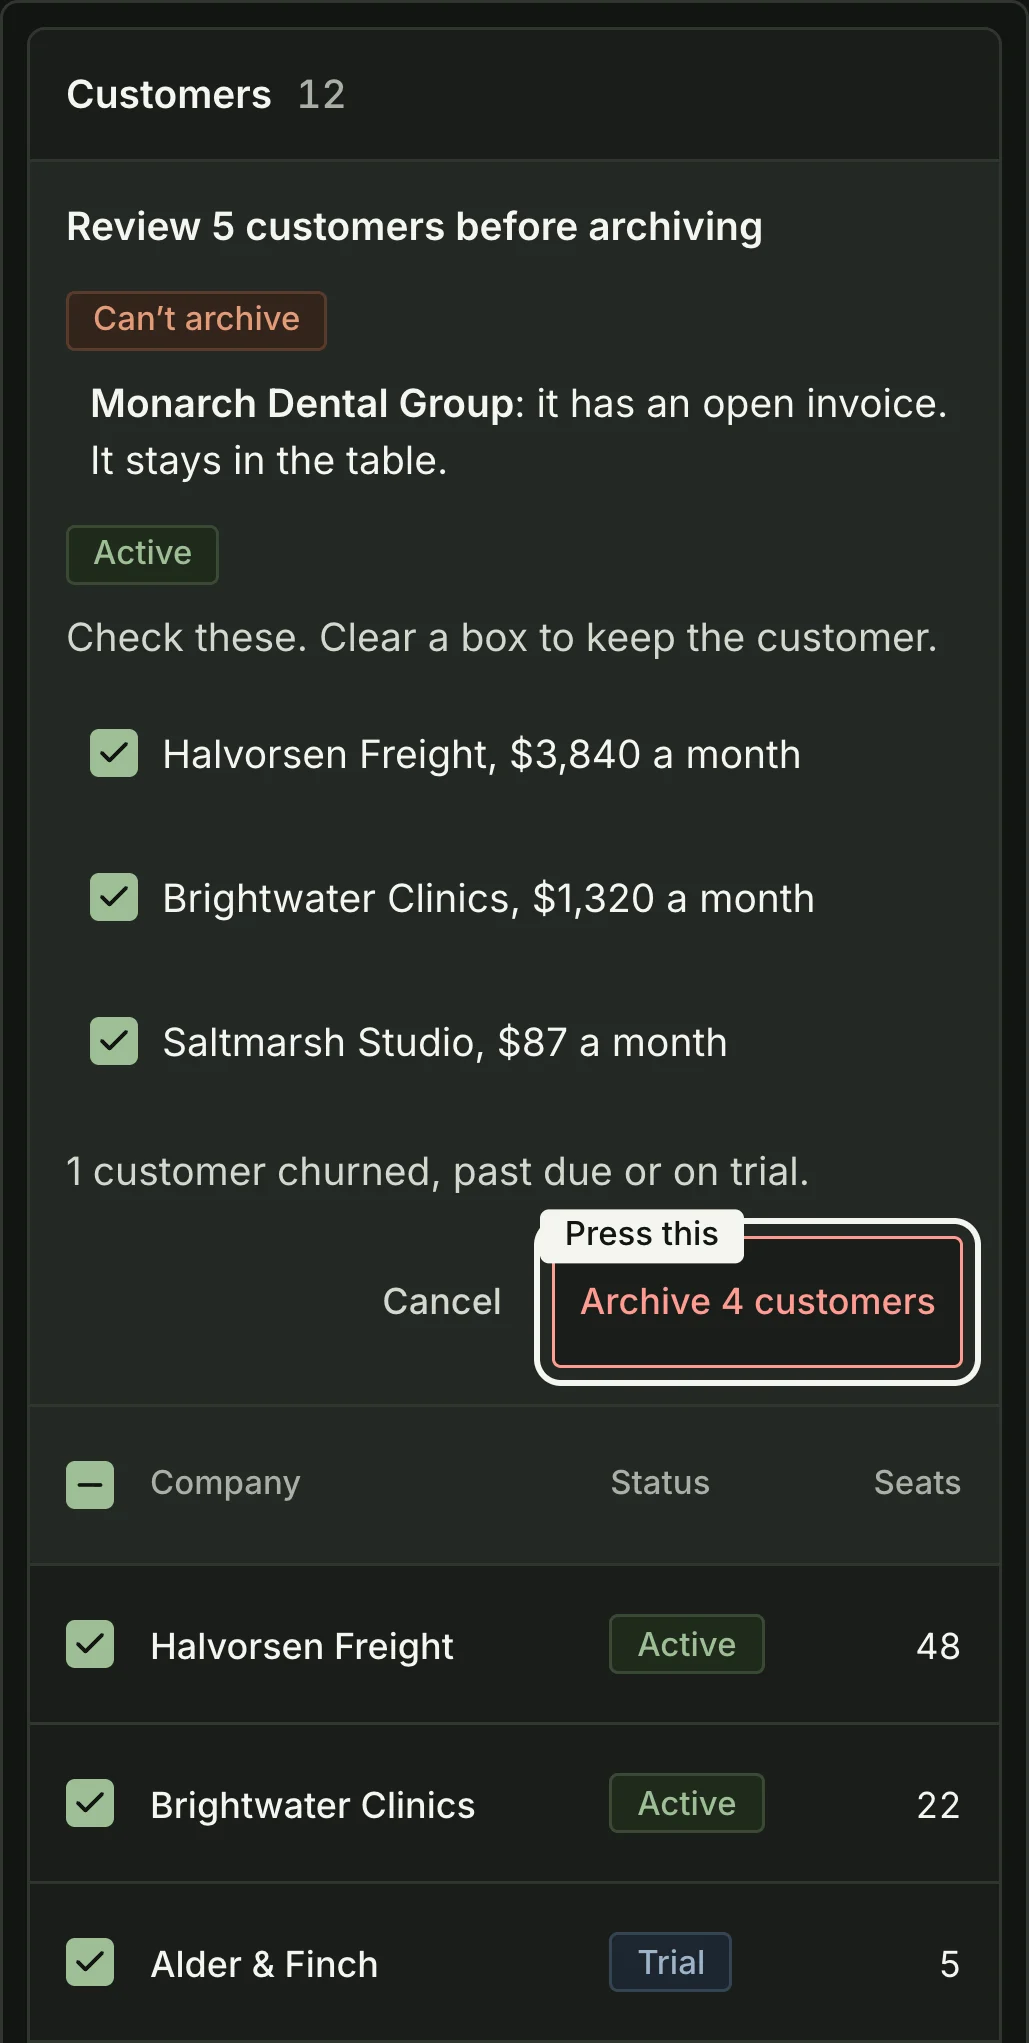
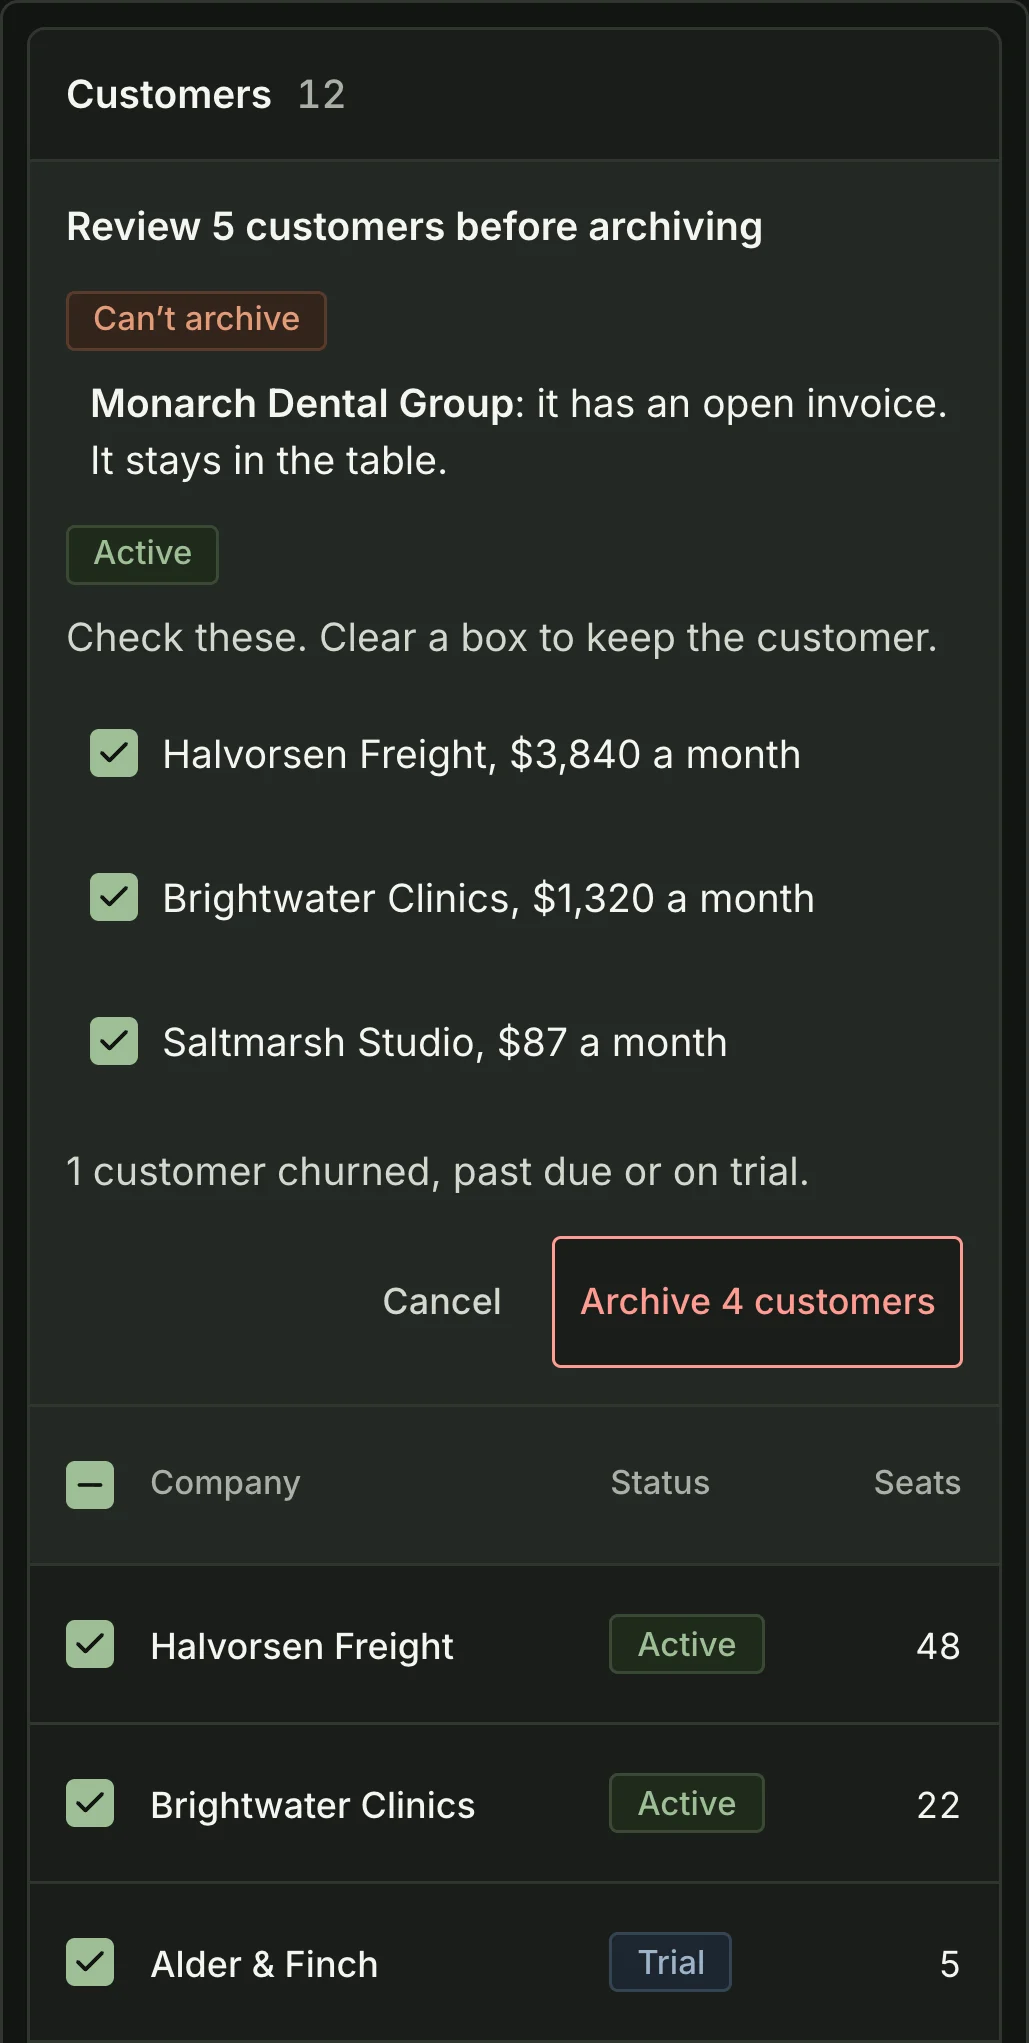
Evaluate pair: the review figure and its phone cut go back to the captures from before app #65, and their ?v=4, so the pair shows the two directions without the app's "Press this" mark over Archive 4 customers; the undo pair keeps its retake. The fast five, resting.mjs, readtime.mjs and states.mjs p

Changed region(s): [[0.4976, 0.5859, 0.7464, 0.6784], [0.9329, 0.5859, 0.964, 0.6784]]

diff --git a/lab/agent-review.html b/lab/agent-review.html
@@ -597,8 +597,8 @@
             <div class="arc-device">
               <div class="arc-device-bar" aria-hidden="true"><span class="arc-device-dots"><span></span><span></span><span></span></span><span class="arc-device-title">Relay &middot; Customers</span></div>
               <div class="arc-screen"><picture>
-                <source media="(max-width: 40rem)" srcset="../img/lab/agent-review-cycle-review-phone.webp?v=5" width="1029" height="2043" />
-                <img src="../img/lab/agent-review-cycle-wipe-review.webp?v=5" width="1820" height="920" loading="lazy" decoding="async"
+                <source media="(max-width: 40rem)" srcset="../img/lab/agent-review-cycle-review-phone.webp?v=4" width="1029" height="2043" />
+                <img src="../img/lab/agent-review-cycle-wipe-review.webp?v=4" width="1820" height="920" loading="lazy" decoding="async"
                      alt="The review direction: the same table with a review panel under the toolbar, Monarch Dental Group marked can&rsquo;t archive, three active customers each with a box, and Archive 4 customers." />
               </picture></div>
             </div>
